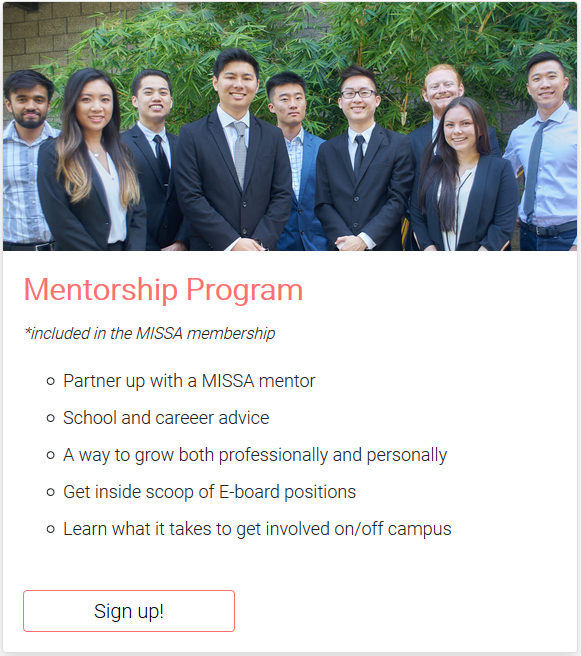
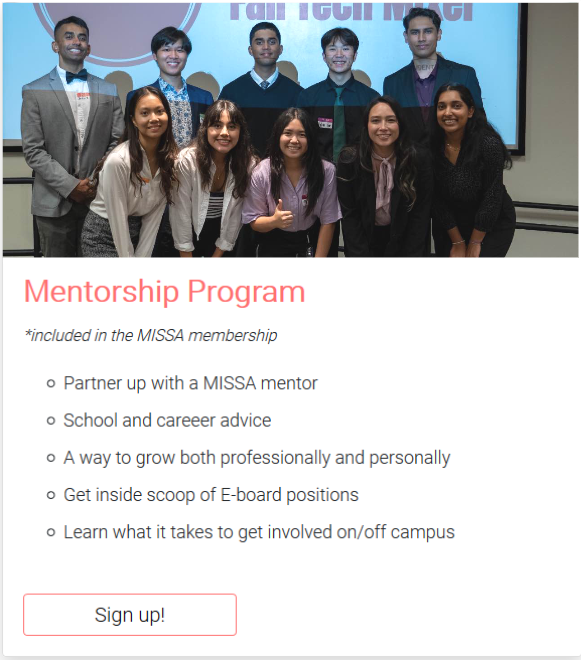
images changes

diff --git a/index.html b/index.html
@@ -251,7 +251,6 @@ ITC -->
         <br>
         <p>Compete in our annual <a href="./html/itc.html">Information Technology Competition</a>, where students from across several colleges solve real-world cases and show employers their talents.</div>
       <div class="col-lg-6 col-lg-6">
-        <img src="...\MISSA Website\CPP-MISSA\img\alteryx datathon\IMG_6857.png" class="img-fluid shadow-img " alt="Responsive image">
       </div>
   </div>
 
@@ -268,7 +267,7 @@ ITC -->
       </div>
       <div class="col-lg-6 col-lg-6">
         <a href="./html/membership.html#mentorship">
-          <img src="./img/testing-img/isaca.png" class="img-fluid single-img  test-img " alt="Responsive image">
+          <img src="./img/testing-img/isacamembership.png" class="img-fluid single-img  test-img " alt="Responsive image">
           <img src="./img/testing-img/mentorship.png" class="img-fluid single-img test-img img-2" alt="Responsive image">
       </a>
       </div>

diff --git a/html/about.html b/html/about.html
@@ -128,7 +128,7 @@
                     </div>  
                   
                   <div class="col-lg-6 col-lg-6 d-flex justify-content-center">
-                    <img src="../img/about/MISSA+Handshake+logo.png" style="height: 475px;" class="img-fluid logo-img" alt="Responsive image">
+                    <img src="../img/about/businesstechnet.png" style="height: 475px;" class="img-fluid logo-img" alt="Responsive image">
                   </div>
               </div>
           
